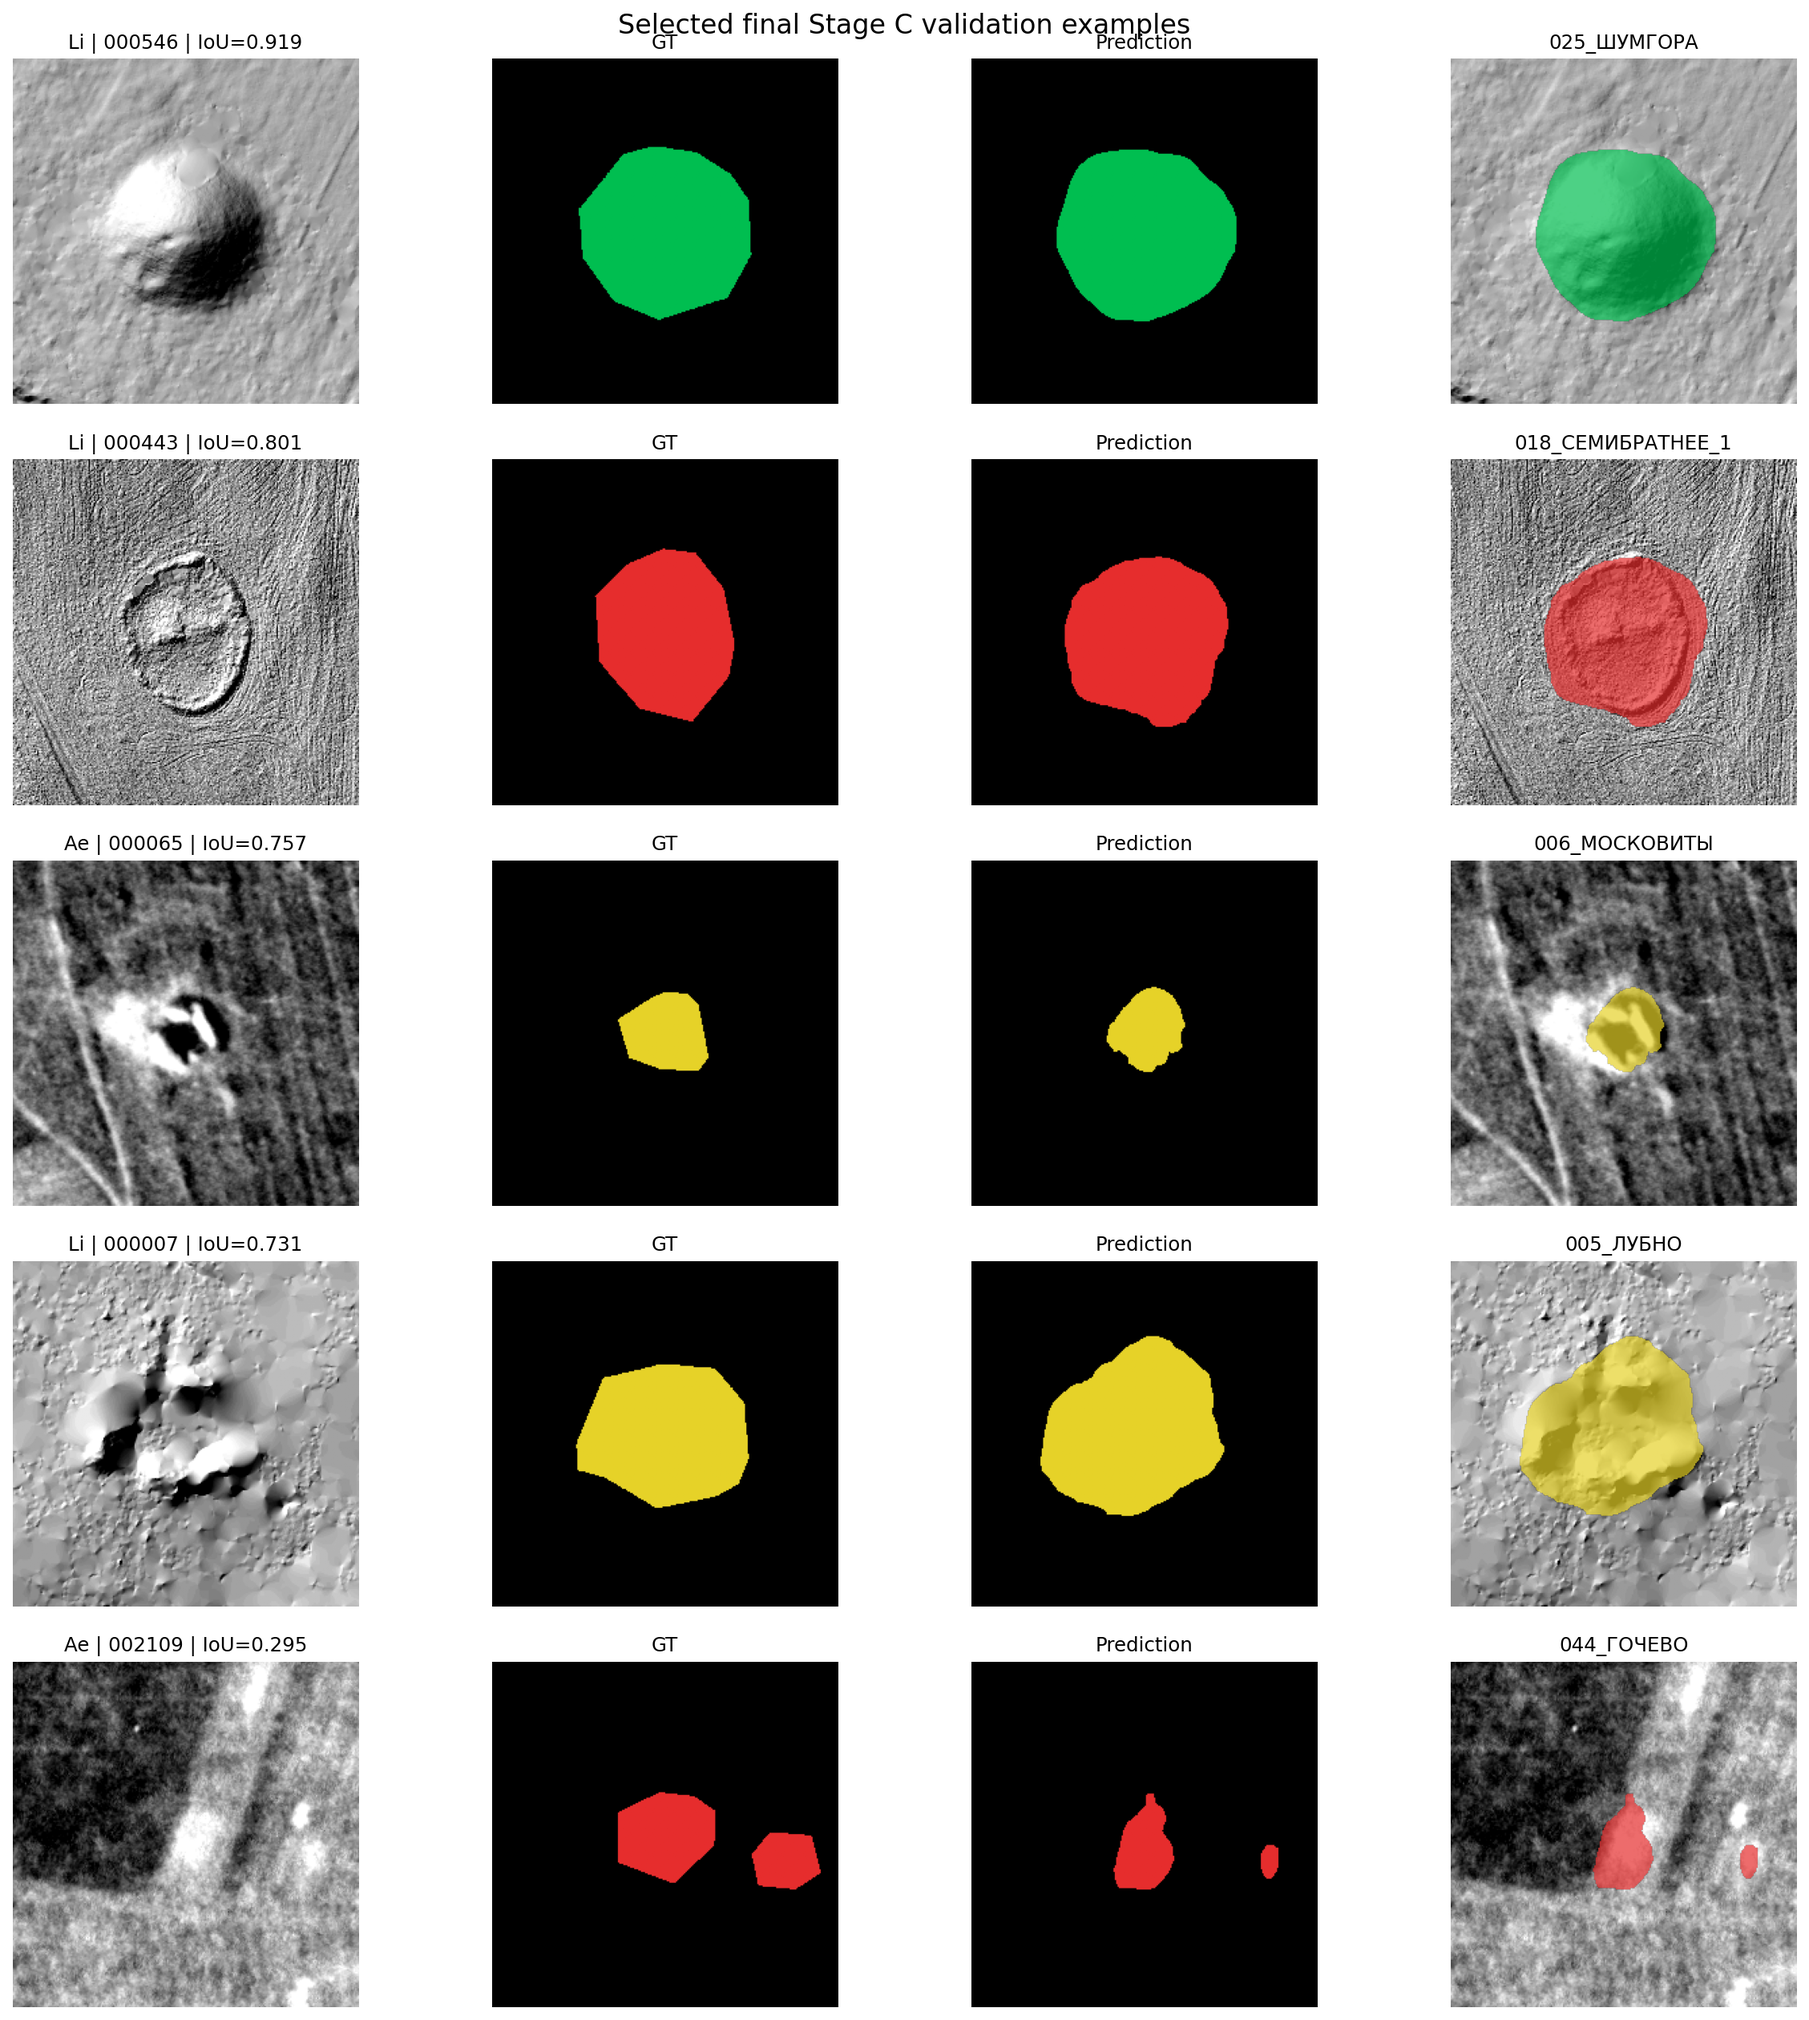
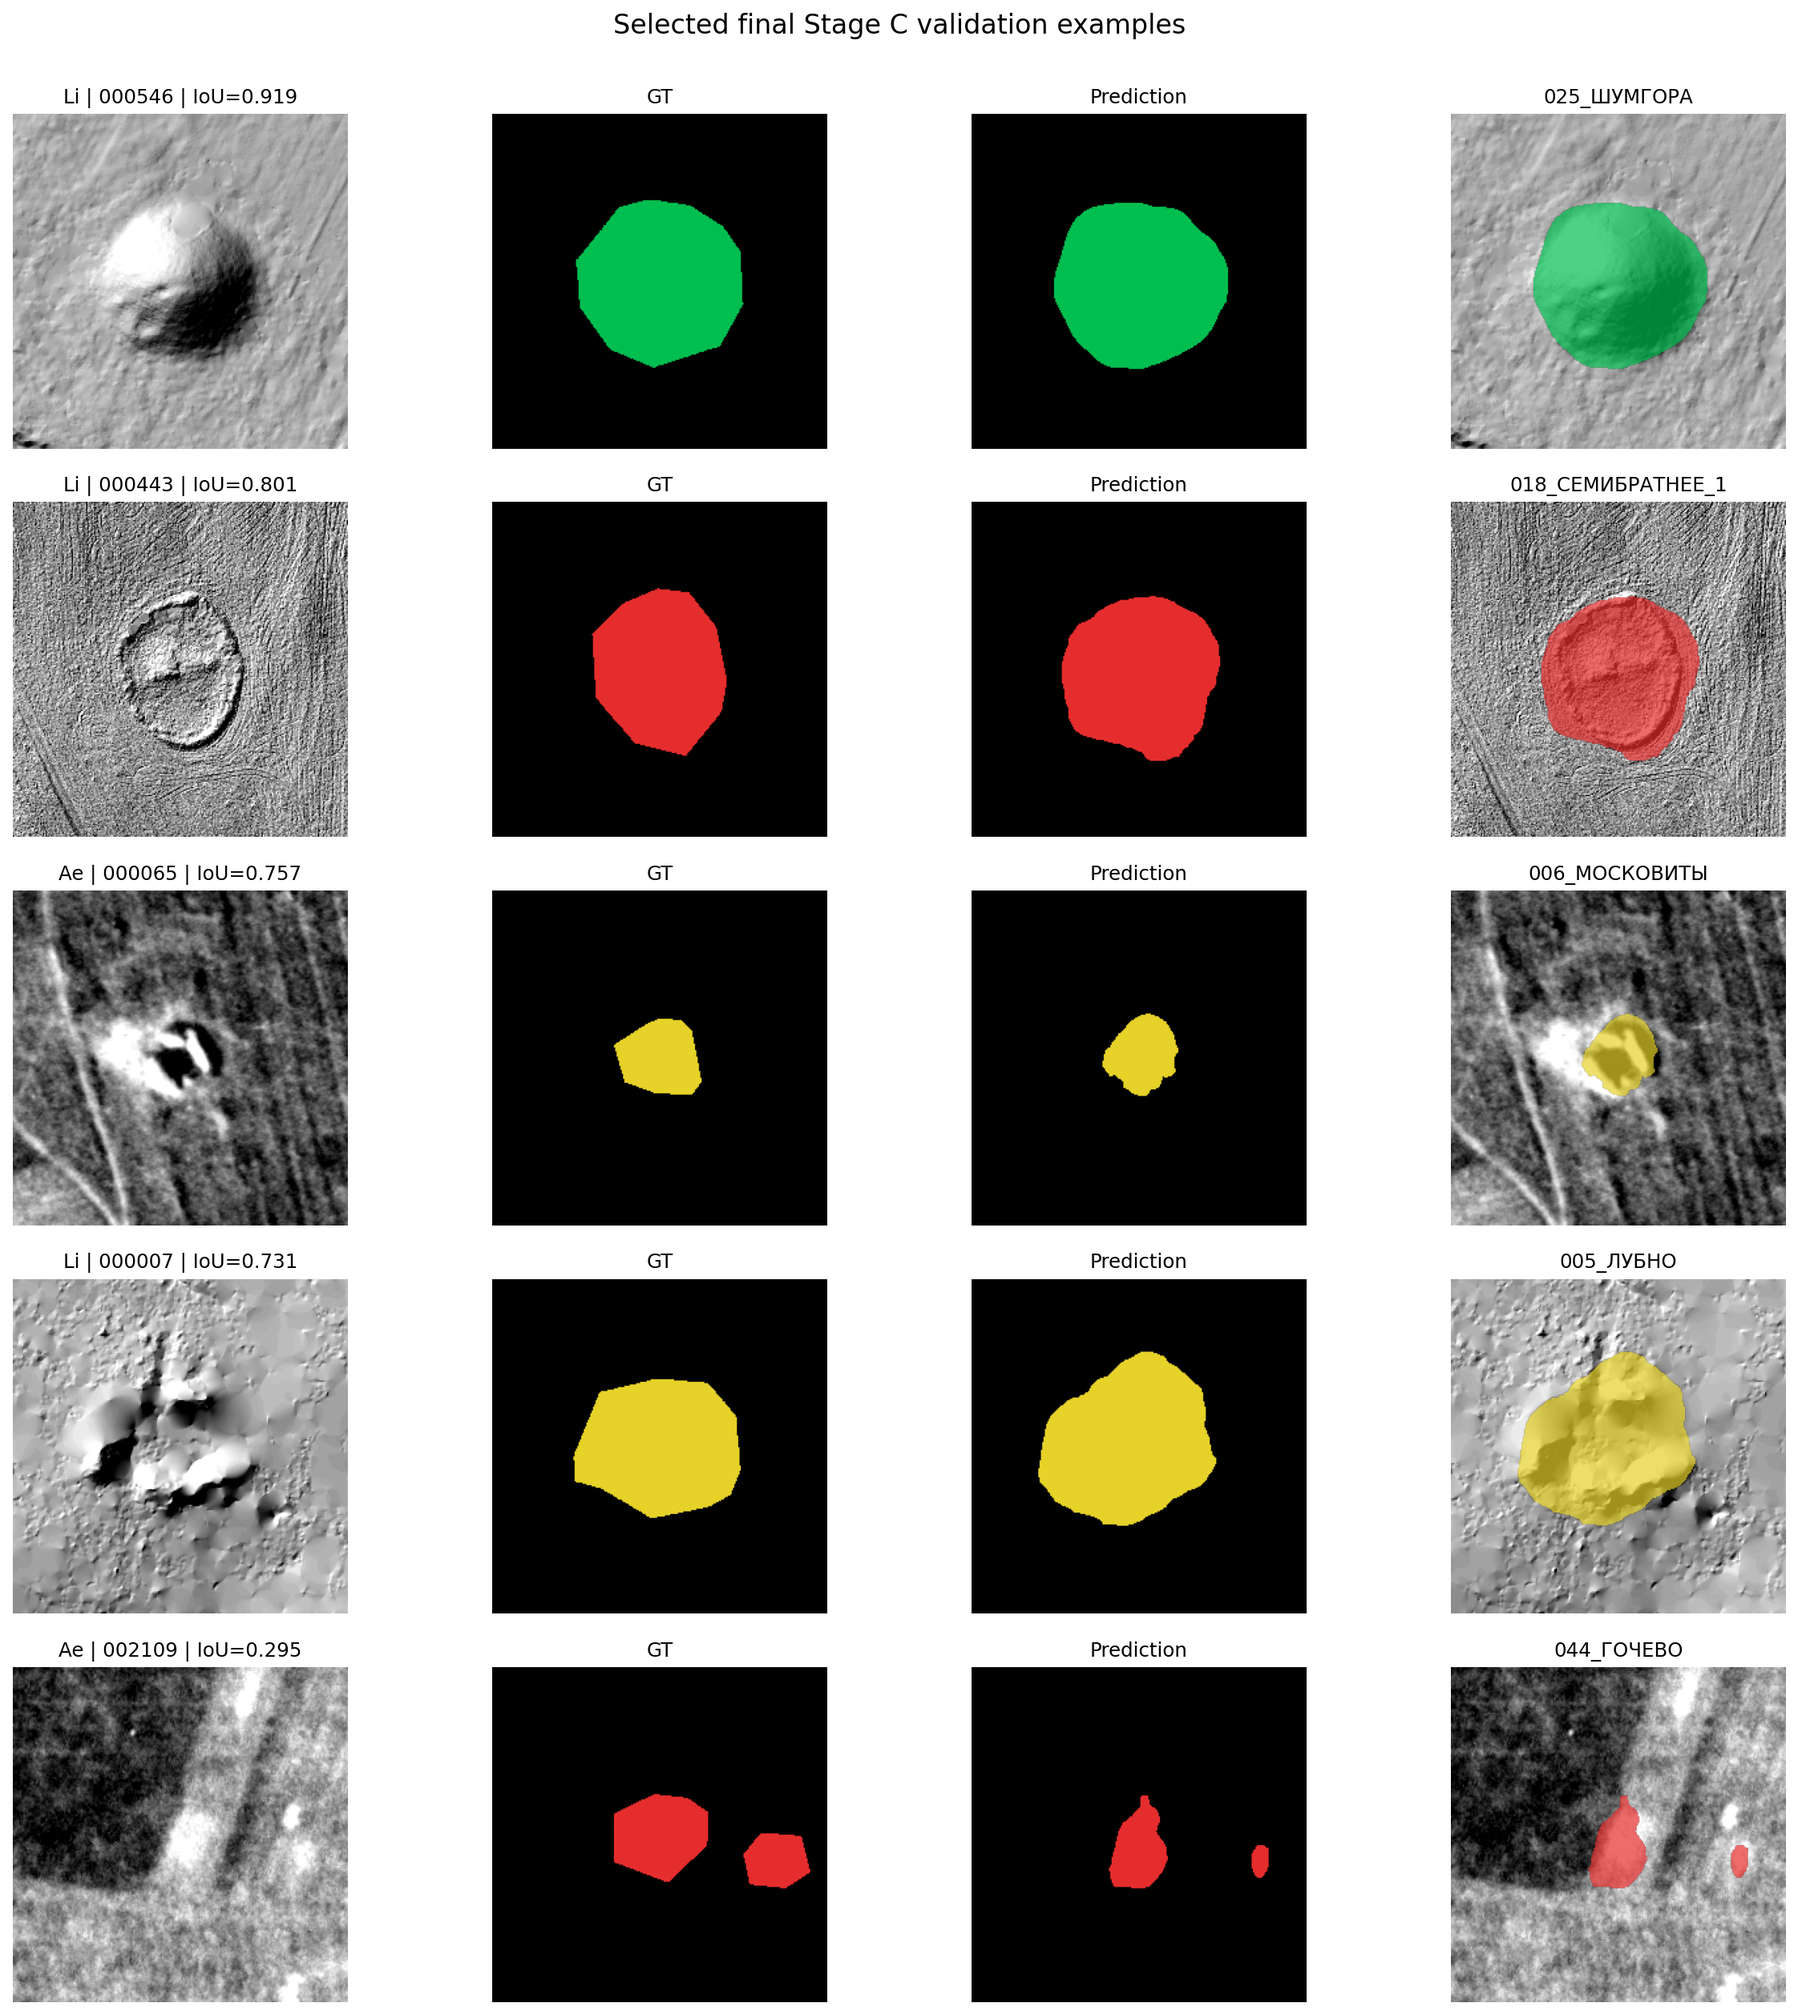
readme

diff --git a/03_multiclass_segmentation_deeplab/scripts/generate_final_readme_visualizations.py b/03_multiclass_segmentation_deeplab/scripts/generate_final_readme_visualizations.py
@@ -577,8 +577,8 @@ def save_compact_curated_collage(
         axes[row_index, 3].set_title(sample.region, fontsize=11)
         for axis in axes[row_index]:
             axis.axis("off")
-    fig.suptitle("Selected final Stage C validation examples", fontsize=15, y=0.998)
-    fig.subplots_adjust(left=0.015, right=0.985, bottom=0.01, top=0.975, wspace=0.12, hspace=0.16)
+    fig.suptitle("Selected final Stage C validation examples", fontsize=15, y=0.995)
+    fig.subplots_adjust(left=0.015, right=0.985, bottom=0.01, top=0.945, wspace=0.12, hspace=0.16)
     output.parent.mkdir(parents=True, exist_ok=True)
     fig.savefig(output, dpi=160, bbox_inches="tight")
     plt.close(fig)

diff --git a/03_multiclass_segmentation_deeplab/README.md b/03_multiclass_segmentation_deeplab/README.md
@@ -4,7 +4,17 @@
 
 Этот модуль `Geodata_Archaeology_CV` посвящен многоклассовой семантической сегментации археологических объектов на данных дистанционного зондирования.
 
-Проект оформлен как воспроизводимое ML-исследование. Каждый этап отвечает на отдельный вопрос: какие данные наиболее информативны, достаточно ли ResNet34, как зафиксировать честный benchmark, насколько результат зависит от seed и можно ли улучшить извлечение объектов без повторного обучения нейросети.
+ Произведено воспроизводимое ML-исследование.
+
+ Каждый этап отвечает на отдельный вопрос:
+
+ - какие данные наиболее информативны,
+ - достаточно ли ResNet34,
+ - как зафиксировать честный benchmark,
+ - насколько результат зависит от seed,
+ - можно ли улучшить извлечение объектов без повторного обучения нейросети.
+
+![Примеры предсказаний итоговой модели ResNet34](assets/predictions/final_resnet34_all_seed_101.png)
 
 **Итоговый pipeline**
 
@@ -20,7 +30,6 @@
 | Morphological opening | `True` |
 | Validation weighted competition F1 | **0.7457** |
 
-![Примеры предсказаний итоговой модели ResNet34](assets/predictions/final_resnet34_all_seed_101.png)
 
 ## Постановка задачи
 
